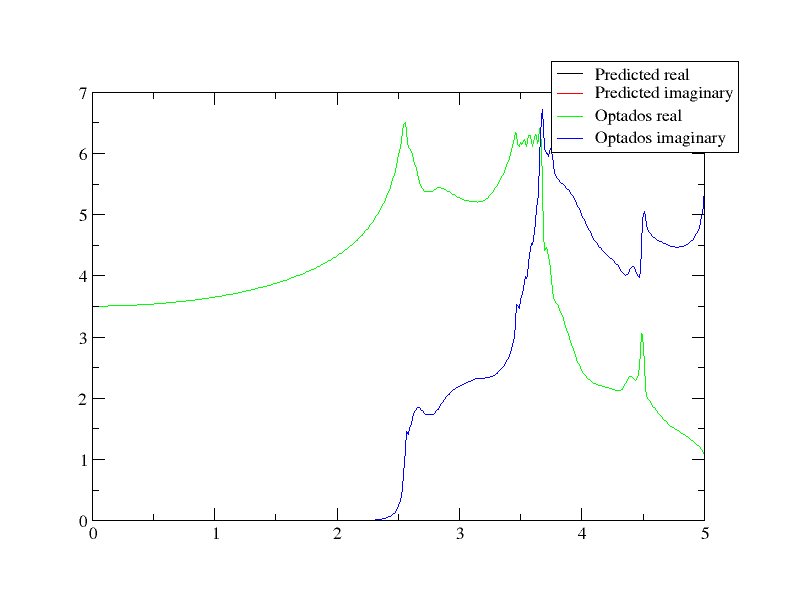
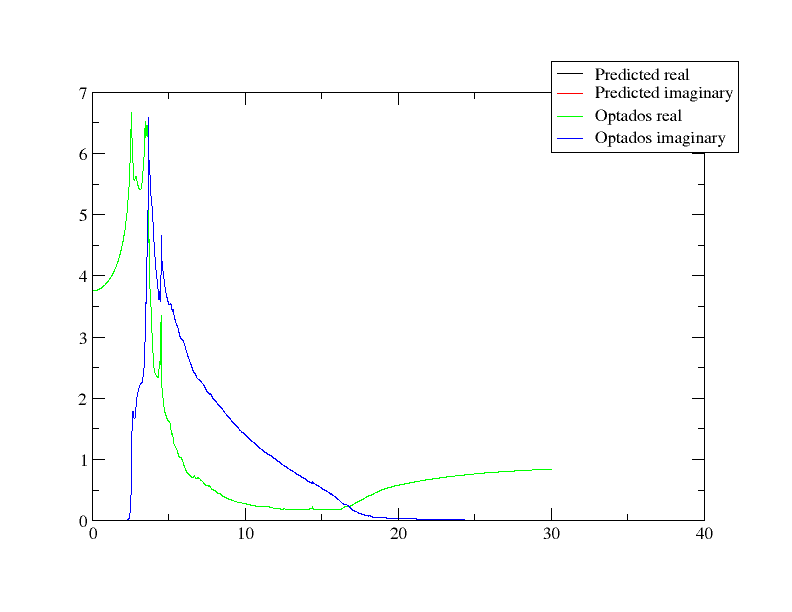
Replaced graph images - used 5eV by accident

diff --git a/docs/tutorials/Optics/Optics.md b/docs/tutorials/Optics/Optics.md
@@ -2,7 +2,7 @@
 
 In this tutorial, we will use Optados to examine the optical properties of silicon and aluminium.
 
-## Silicon
+## Silicon Properties
 
 For Silicon, we will use the input `cell` file
 
@@ -37,6 +37,7 @@ IPRINT                 : 2
 ```
 Run Castep as usual. When it is done, run Optados on Si with the Optados input file
 
+<a id="odi"></a>
 *Si.odi*
 ```
 # Choose the task to perform
@@ -117,7 +118,7 @@ Next let's look at the absorption data. The `dat` file is very similar, this tim
 You can plot it with xmgrace the same way as before (again the `agr` file is prepared by Optados). It should look like this
 
 <a id="absorption_graph"></a>
-![Si absorption graph](Si_absorption.png){width="40%"}
+![Si absorption graph](absorption.png){width="40%"}
 
 Let's examine how this is calculated. The absorption coefficient is calculated as
 
@@ -199,7 +200,7 @@ LEGEND 0.9, 0.9
 ```
 This gives a graph that looks like this:
 
-![Refractive index](Refractive_index.png){width="40%"}
+![Refractive index](refractive_index.png){width="40%"}
 
 Once again, the values derived from the dielectric function dataset are identical, so they overlap - confirming for us how the properties are calculated. You may note that the imaginary refractive index's shape is [identical to that of the absorption](Optics.md#absorption_graph) - as we've seen, it's just that multiplied by a constant.
 
@@ -226,7 +227,7 @@ def calculate_property(n, kappa):
 
 Once again, we plot the output file of the script along with the `.dat` file and see that they're identical:
 
-![Reflectivity](reflectivity.png){width="40%"}
+![Reflectivity](reflection.png){width="40%"}
 
 If you are interested, you could change the Fresnel equation used and appropriately adjust the script to include the imaginary part, see how it behaves coming from a different medium, different angle etc. - there is a lot you could look at in terms of reflectivity.
 
@@ -285,6 +286,15 @@ def calculate_property(epsilon_1, epsilon_2):
 Plotting it together with `Si_loss_fn.dat` on xmgrace gives us the graph
 
 ![Loss graph](loss.png){width="40%"}
+
+## Changing Parameters
+
+Now that we know what Optados optics does and how it works, let's try changing some parameters in the [Optados input file](Optics.md#odi) `Si.odi`, and re-running Optados, to see what effects it has.
+
+### JDOS Parameters
+
+First let's have a look at the effect of changing the line `JDOS_MAX_ENERGY : 30`. We'll set it to 10 and 100 and plot `Si_epsilon.agr` using xmgrace. Doing it for 10 gives the graph:
+
 
 
 * Change parameters `JDOS_SPACING` and `JDOS_MAX` and check the effect on the optical properties.  Note: all of the other optical properties are derived from the dielectric function.  
